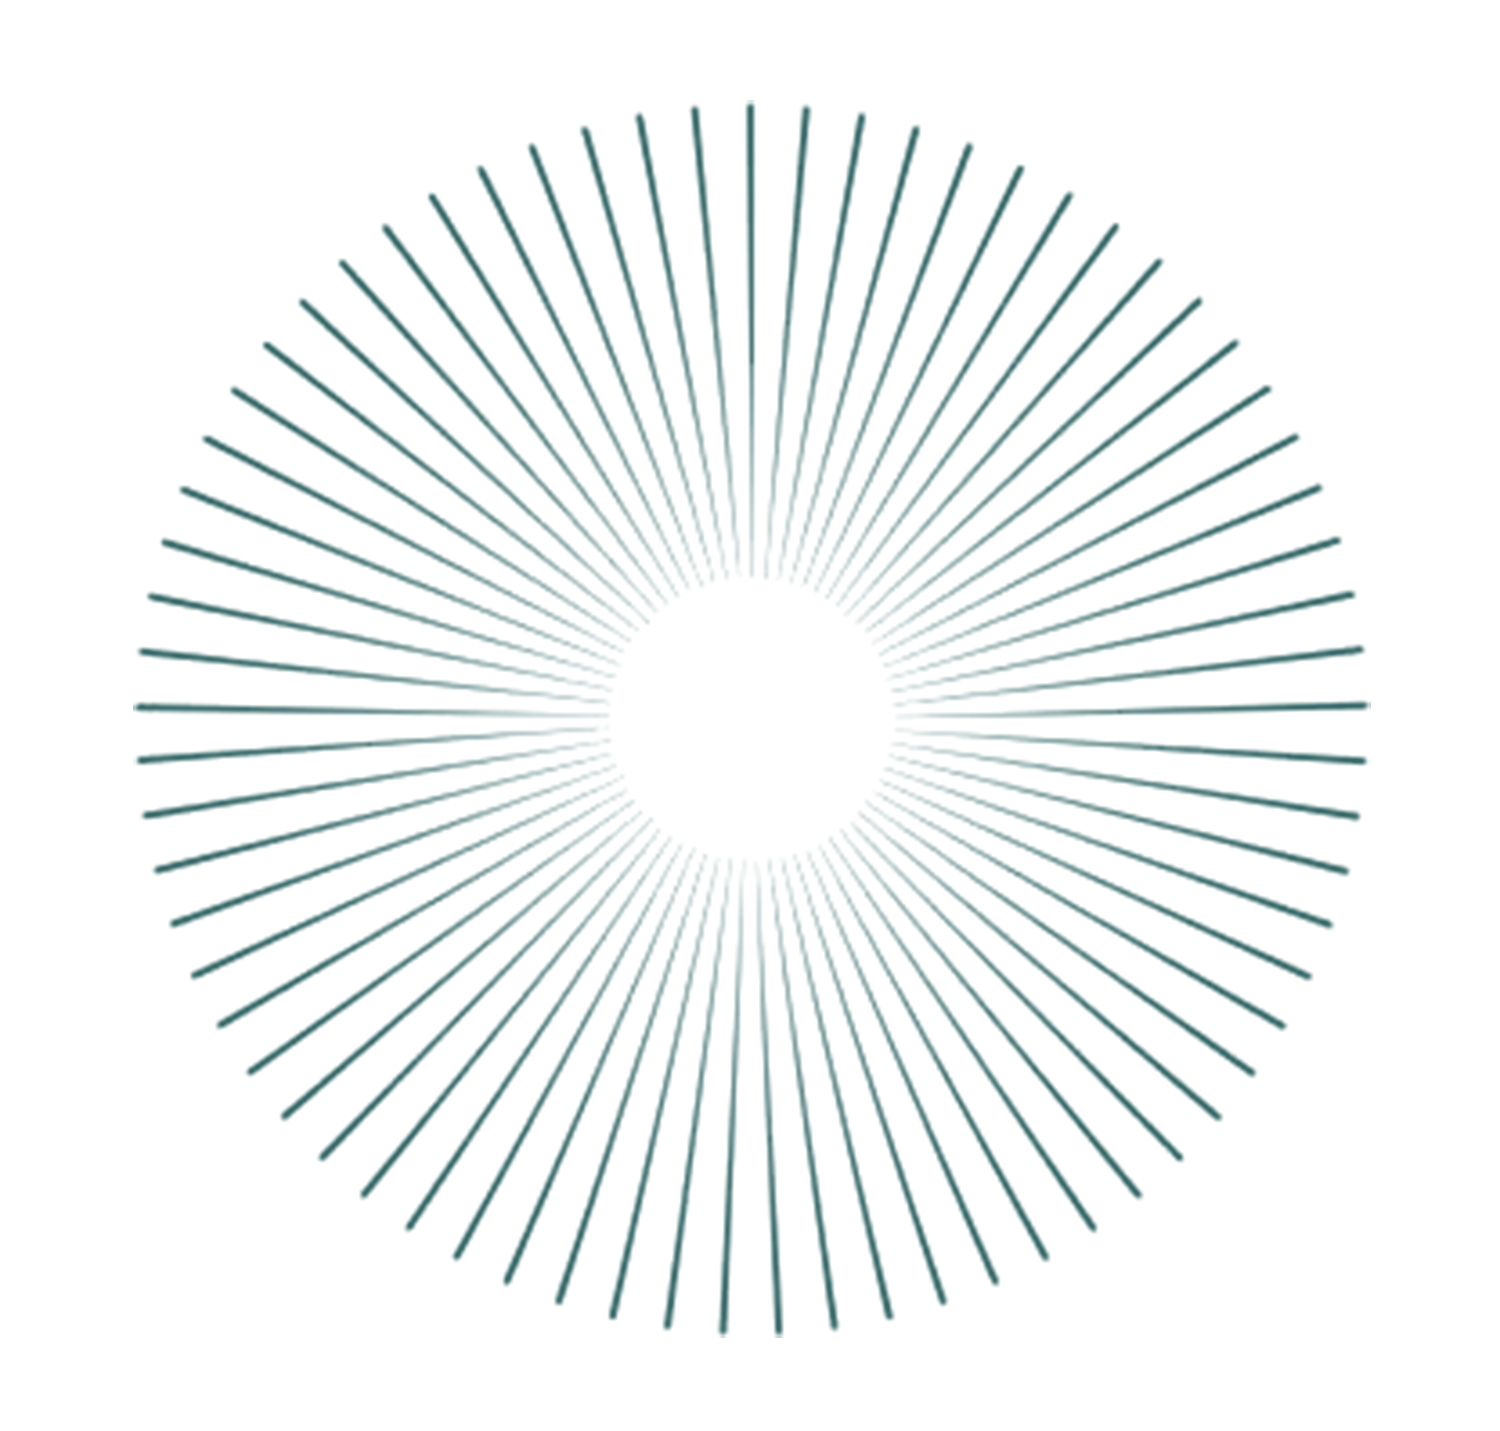
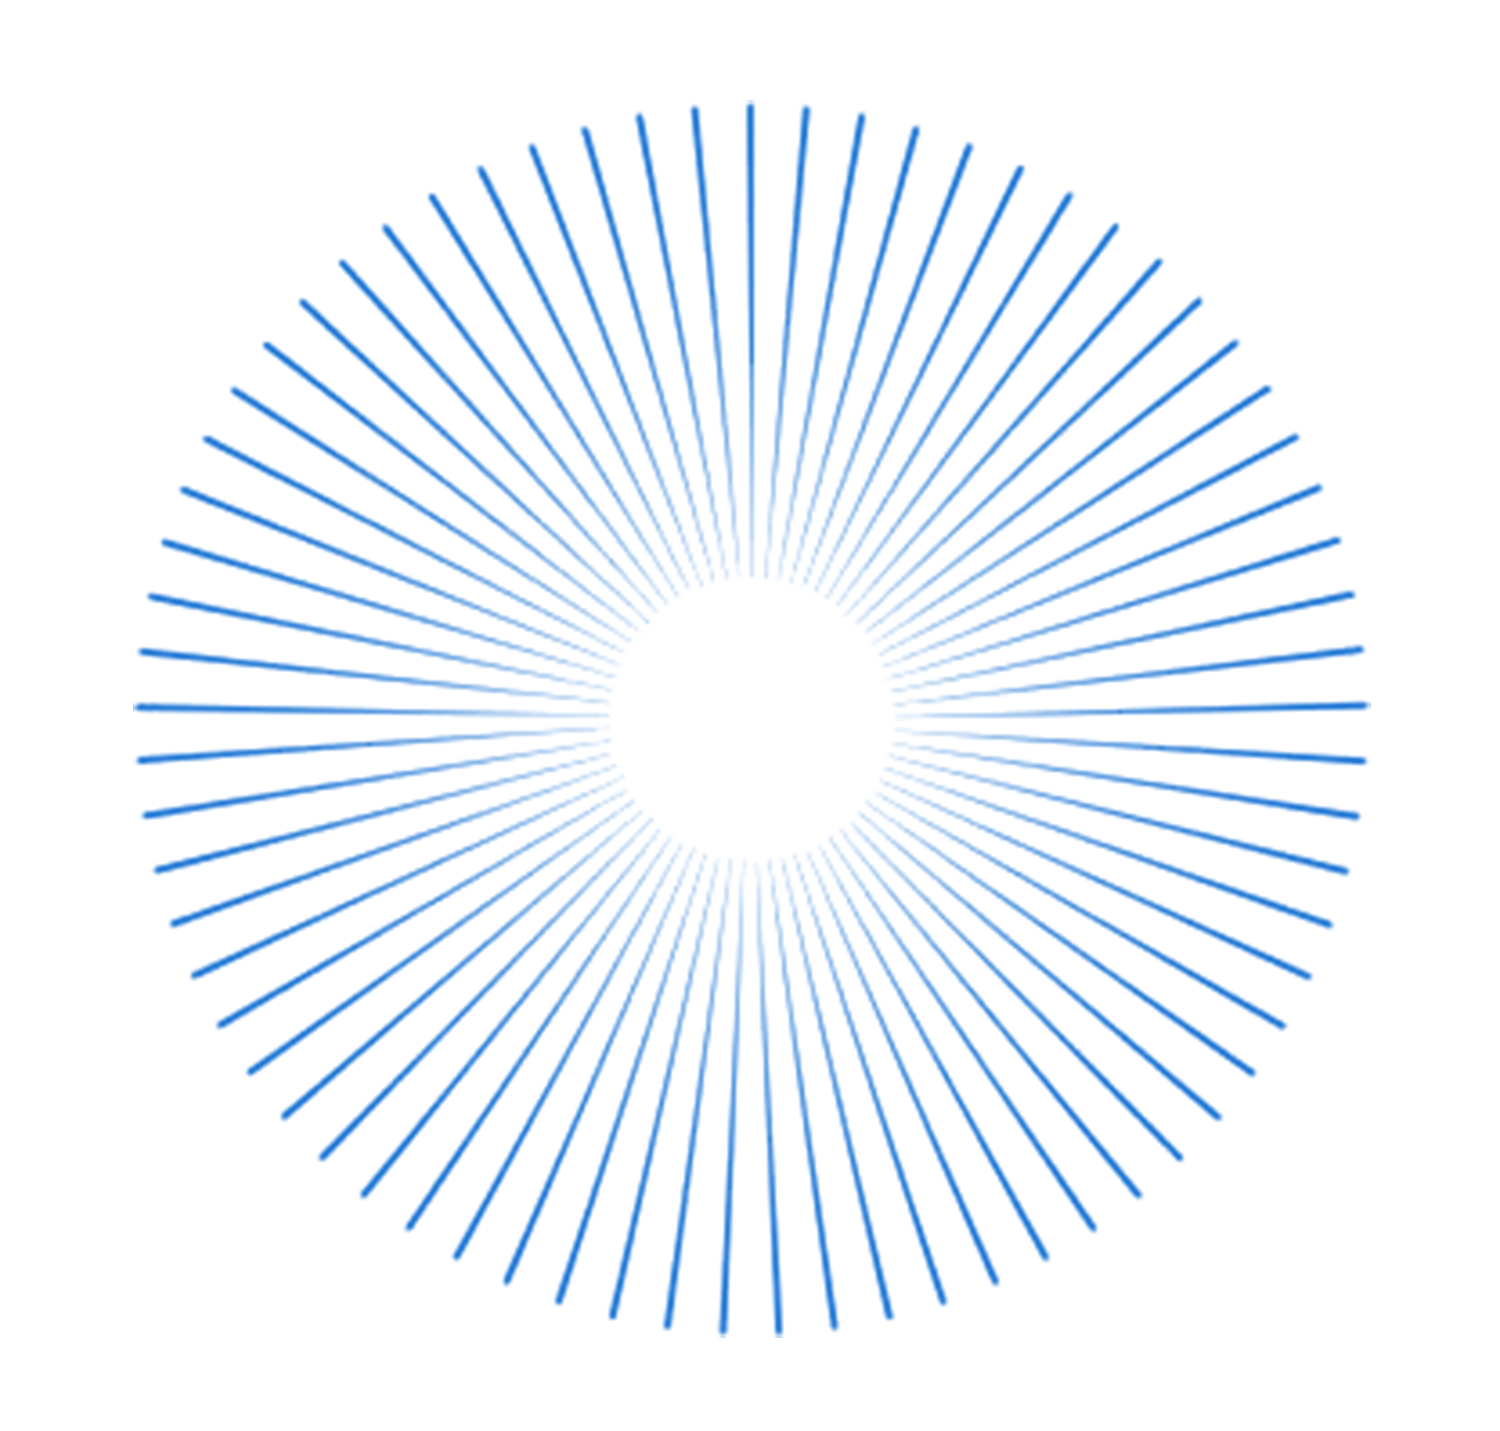
styling fix

Changed region(s): [[0.092, 0.0615, 0.92, 0.9224]]

diff --git a/src/styles/global.css b/src/styles/global.css
@@ -27,7 +27,7 @@
     --loveless-pink-dark: hsl(304,90%,47%,100%);
     --loveless-blue-light: hsl(180,80%,86%,100%);
     --loveless-blue: hsl(211, 100%, 59%);
-    --loveless-blue-dark: hsl(180,60%,46%,100%);
+    --loveless-blue-dark: hsl(211, 72%, 45%);
     --loveless-black: hsl(0, 0%, 0%);
     --loveless-white: hsl(0,0%,100%);
     --instagram-gradient:
